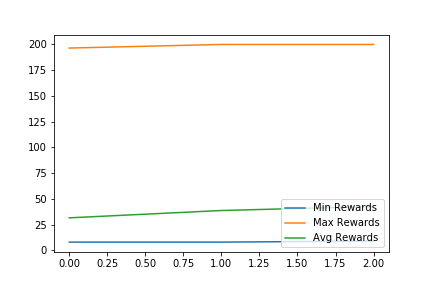
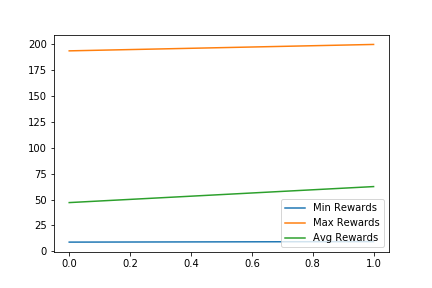
Completed cartpole solution.

diff --git a/examples/coga/cartpole/cartpole.py b/examples/coga/cartpole/cartpole.py
@@ -7,24 +7,6 @@ from rltoolkit.methods import COGA
 from rltoolkit.utils import test_network
 from rltoolkit.callbacks import Checkpoint, Graph
 
-import cProfile, pstats, io
-def profile(fnc):
-  """A decorator that uses cProfile to profile a function"""
-  
-  def inner(*args, **kwargs):
-    pr = cProfile.Profile()
-    pr.enable()
-    retval = fnc(*args, **kwargs)
-    pr.disable()
-    s = io.StringIO()
-    sortby = 'cumulative'
-    ps = pstats.Stats(pr, stream=s).sort_stats(sortby)
-    ps.print_stats(.05)
-    print(s.getvalue())
-    return retval
-
-  return inner
-
 env = gym.make('CartPole-v0')
 try:
   print(env.unwrapped.get_action_meanings())
@@ -38,43 +20,39 @@ model.add(Dense(env.action_space.n, activation='linear'))
 model.compile(Adam(0.001), loss='mse')
 model.summary()
 
-# @profile
-def coga(model):
-  #Initialize Deep Q Learning Method
-  method = COGA(model, 
-                num_colonies=20, 
-                num_workers=30,
-                alpha=0.1,
-              )
+#Initialize Deep Q Learning Method
+method = COGA(model, 
+              num_colonies=20, 
+              num_workers=30,
+              alpha=0.1,
+            )
 
-  #Enable graphing of rewards
-  graph = Graph()
-  #Make a checkpoint to save best model during training
-  ckpt = Checkpoint('cartpole.h5')
-  #Train neural network for 50 episodes
-  nn = method.train(env,
-                    goal=200,
-                    elites=4, 
-                    verbose=1,
-                    patience=3,
-                    validate=True,
-                    generations=25,
-                    callbacks=[graph, ckpt], 
-                    sharpness=2,
-                  )
+#Enable graphing of rewards
+graph = Graph()
+#Make a checkpoint to save best model during training
+ckpt = Checkpoint('cartpole.h5')
 
-  #Save and show rewards
-  version = ['min', 'max', 'avg']
-  graph.show(version=version)
-  graph.save('cartpole.png', version=version)
+#Train neural network for 50 episodes
+nn = method.train(env,
+                  goal=200,
+                  elites=4, 
+                  verbose=1,
+                  patience=3,
+                  validate=True,
+                  generations=25,
+                  callbacks=[graph, ckpt], 
+                  sharpness=20,
+                )
 
-  #Load best saved model
-  model = load_model('cartpole.h5')
-  # model = nn
+#Save and show rewards
+version = ['min', 'max', 'avg']
+graph.show(version=version)
+graph.save('cartpole.png', version=version)
 
-  #Test models results for 5 episodes
-  episodes = 5
-  avg = test_network(model, env, episodes=episodes, render=True, verbose=1)
-  print(f'Average after {episodes} episodes:', avg)
+#Load best saved model
+model = load_model('cartpole.h5')
 
-coga(model)
+#Test models results for 5 episodes
+episodes = 5
+avg = test_network(model, env, episodes=episodes, render=True, verbose=1)
+print(f'Average after {episodes} episodes:', avg)

diff --git a/examples/coga/mountaincar/mountaincar.py b/examples/coga/mountaincar/mountaincar.py
@@ -25,7 +25,7 @@ model.summary()
 method = COGA(model, 
               num_colonies=20, 
               num_workers=30,
-              alpha=0.1,
+              #alpha=0.1,
             )
 
 #Enable graphing of rewards
@@ -38,9 +38,9 @@ nn = method.train(env,
                   goal=-110,
                   elites=4, 
                   verbose=1,
-                  patience=10,
+                  patience=3,
                   validate=True,
-                  generations=100,
+                  generations=25,
                   callbacks=[graph, ckpt], 
                   sharpness=2,
                 )
